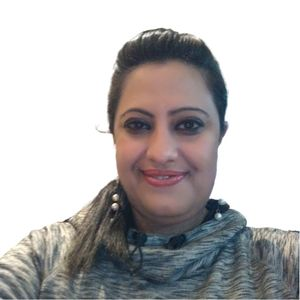
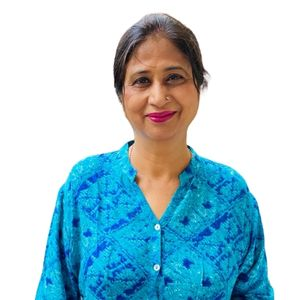
Added new healer

diff --git a/src/app/data.service.ts b/src/app/data.service.ts
@@ -268,7 +268,7 @@ export class DataService implements InMemoryDbService {
             Education : "Clinical Hypnotherapist, Doctor of Naturopathy, Reiki Master",
             Available : " Available on Fri, 22 Mar ",
             Earned : "₹3100.00",
-            Price : "₹3000",
+            Price : "₹2000",
             profile : "assets/img/doctors/doctor-thumb-01.jpg",
             status : "1",
             type : "Female",
@@ -291,7 +291,7 @@ export class DataService implements InMemoryDbService {
         Education : "Reiki Master, Crystal Healing, Breathwork",
         Available : " Available on Fri, 22 Mar ",
         Earned : "₹3100.00",
-        Price : "₹3000",
+        Price : "₹2000",
         profile : "assets/img/doctors/doctor-thumb-02.jpg",
         status : "1",
         type : "Male",
@@ -328,6 +328,28 @@ export class DataService implements InMemoryDbService {
       },
       {
         id : 4,
+        doctor_name : "Sadhana Rana",
+        specializations : ["Reiki", "Magneto therapy", "Acupressure"],
+        services : ["Reiki Healing", "Crystal Healing", "Magneto therapy", "Acupressure"],
+        work_experience : [{title: "Reiki Master", duration: "26 years"}, {title: "Magneto therapist", duration: "26 years"}, {title: "Accupressure expert", duration: "26 years"}],
+        speciality_profile : 'assets/img/specialities/specialities-05.png',
+        since : "Wed May 27 2002 09:41:48 GMT+0530 (India Standard Time)",
+        Education : "Reiki Master, Crystal Healing, Breathwork",
+        Available : " Available on Fri, 22 Mar ",
+        Earned : "₹3100.00",
+        Price : "₹2000",
+        profile : "assets/img/doctors/doctor-thumb-04.jpg",
+        status : "1",
+        type : "Female",
+        location : "Online & Ranchi, India",
+        availableTime : "10 am",
+        consulting_fees : "₹2000",
+        booking_fees : "₹500",
+        video_call : "₹1500",
+        description : "Sadhana Rana is passionate about sharing her knowledge of holistic healing modalities as a Reiki master, magneto therapy specialist, and accupressure practitioner. Since 1996, she has been helping people through the practise of alternative medicine, which includes techniques like Reiki, Pranic healing, Crystal therapy, Magneto therapy, Acupressure, and Acupuncture. She is the recipient of multiple honours and has presented her research at multiple conferences and seminars. Since 1996, she has been treating thousands of patients at her Rana Magnetotherapy Centre in Lalpur, Ranchi."
+      },
+      {
+        id : 5,
         doctor_name : "Neha Arora ",
         specializations : ["Hypnotherapy", "Naturopathy", "Reiki","Breathwork"],
         services : ["Hypnotherapy", "Past Life Regression Therapy","Ancestral Healing", "Family Constellation","Inner Child", "Reiki Healing",
@@ -340,7 +362,7 @@ export class DataService implements InMemoryDbService {
         Available : " Available on Fri, 22 Mar ",
         Earned : "₹3100.00",
         Price : "₹2000",
-        profile : "assets/img/doctors/doctor-thumb-04.jpg",
+        profile : "assets/img/doctors/doctor-thumb-05.jpg",
         status : "1",
         type : "Female",
         location : "Online & Chandigarh, India",
